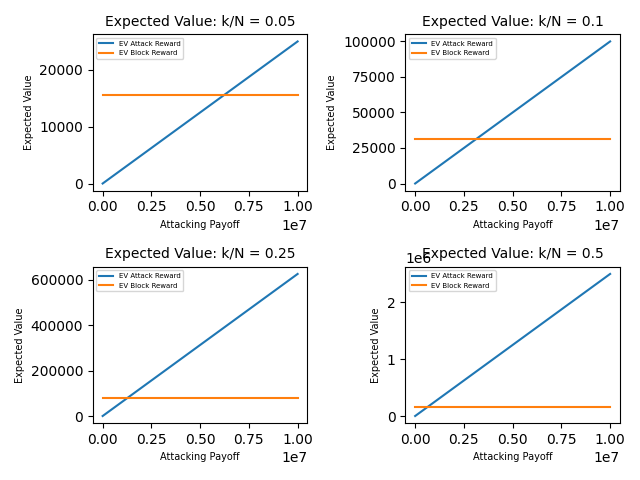
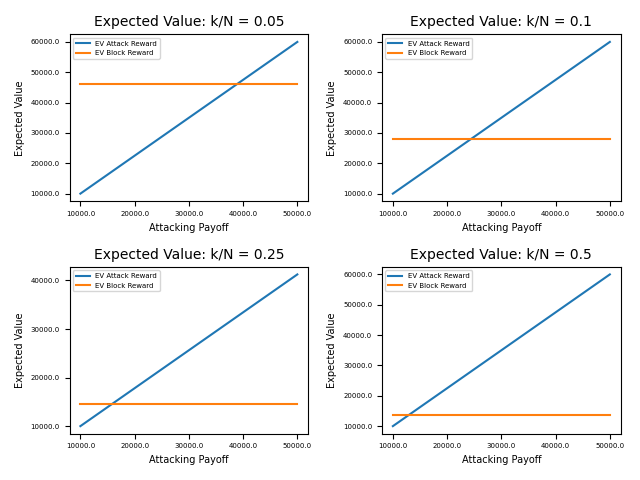
finished ev vis

diff --git a/double_spend.py b/double_spend.py
@@ -15,14 +15,18 @@ total_defenders = total_validators - total_attackers
 attacker_ratio = total_attackers / total_validators
 defender_ratio = 1 - attacker_ratio
 
-num_samples = 1000
+num_samples = 1001
 largest_attack_payoff = 10000000
 
 attack_payoffs = np.linspace(0, largest_attack_payoff, num_samples)
 
+#source https://decrypt.co/57740/bitcoin-miners-now-earn-1-btc-in-fees-per-block
+transaction_fee = 48000
+
+
 block_reward_btc = 6.25
 bitcoin_price_usd = 50000
-block_reward_usd = block_reward_btc * bitcoin_price_usd
+block_reward_usd = block_reward_btc * bitcoin_price_usd + transaction_fee
 
 ratios = [.05, .1, .25, .5]
 
@@ -33,6 +37,8 @@ for i in range(len(ratios)):
     ev_attack_block_reward_arr = np.full(num_samples, ev_non_attack_br)
     ax.plot(attack_payoffs, ev_attack_block_reward_arr, label = "EV Block Reward")
     ax.legend(prop={'size': 5})
+    ax.set_xticklabels(attack_payoffs, fontsize=5)
+    ax.set_yticklabels(attack_payoffs, fontsize=5)
     ax.set_xlabel("Attacking Payoff", font = {'size' : 7})
     ax.set_ylabel("Expected Value", font = {'size' : 7})
     ax.set_title("Expected Value: k/N = {}".format(ratios[i]), font = {'size' : 10})
